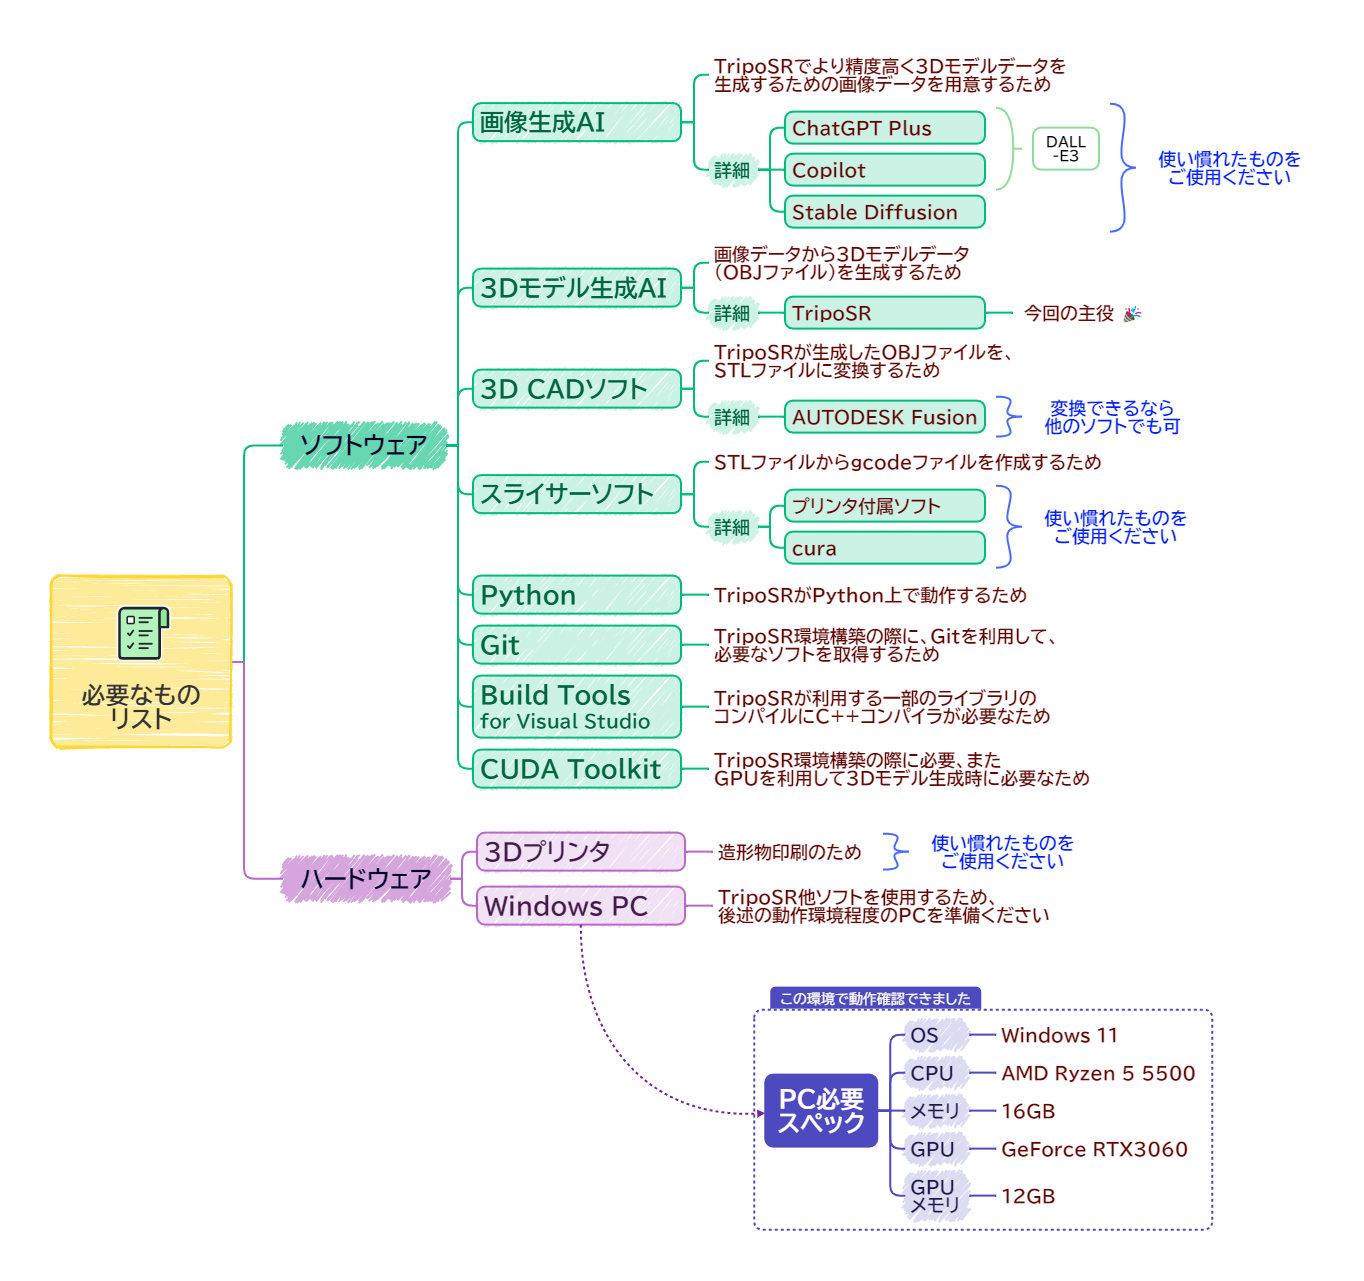
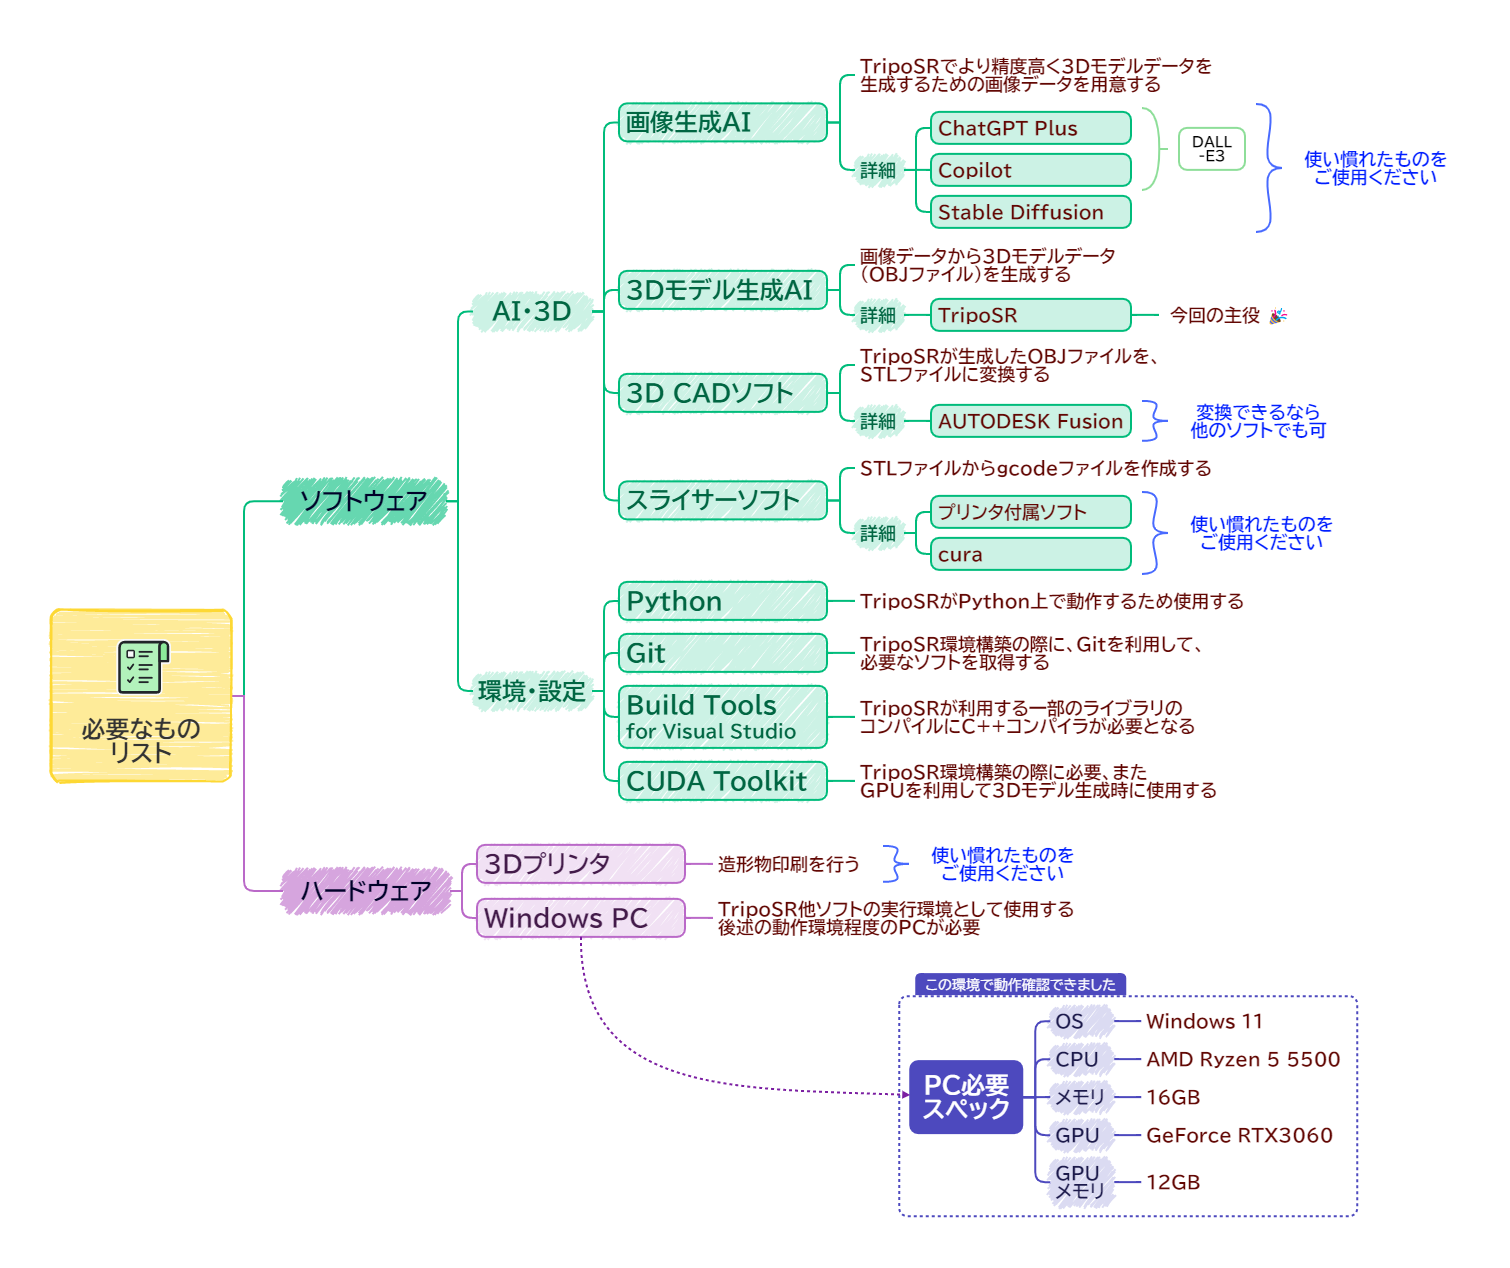
tripo 環境構築初期作成完了

Changed region(s): [[0.0308, 0.0308, 0.9545, 0.7689], [0.5235, 0.7689, 0.893, 0.9535]]

diff --git a/articles/turtle-20240721-tripo-3dp.md b/articles/turtle-20240721-tripo-3dp.md
@@ -38,21 +38,20 @@ https://ja.stability.ai/blog/triposr-3d-generation
 
 ## 必要なもの
 
-次に、必要なものをソフトウェアとハードウェアに分類して一覧にしました。使用するソフトが多く感じるかもしれませんが、環境構築や実行手順で触れますので、ご安心ください。
+次に、必要なものをソフトウェアとハードウェアに分類してリストにしました。使用するソフトウェアが多く感じるかもしれませんが、環境構築や実行手順で触れますので、ご安心ください。
 
 ![](/images/turtle-20240721-tripo-3dp/needs_list.png)
 *必要なものリスト*
 
-PC必要スペックに関する補足：
+**PCスペックの補足：**
 TripoSR使用時、下図のようにGPUメモリを消費します。8GBのGPUメモリですと、エラーになるという報告もありますので、GPUメモリを12GB以上搭載しているGPUを選定すると安心です。
-※この手のGPUメモリ不足は、何らかの回避策がある可能性ありますが、本ブログでは扱いません。ご了承ください。
 
 ![](/images/turtle-20240721-tripo-3dp/gpu_memory.png =550x)
 *使用時のGPUメモリ消費量*
 
 ## 環境構築
 
-環境構築では、肝となる「**TripoSR**」を中心に説明させていただき、その他については、簡易的な手順説明か、最低限必要なURLを提示させていただきます。インストールは、上から順番に実施してください。なお、既に導入済みのものについては、スキップして構いません。
+環境構築では「**TripoSR**」を中心に説明し、その他については、簡易的な手順説明か、最低限必要なURLを提示します。環境構築は上から順に実施し、既に導入済みのものについては、スキップしてください。
 
 ### ●Python
 
@@ -67,7 +66,7 @@ https://www.python.org/downloads/
 *インストーラのダウンロード*
 
 2. **Pythonインストール**
-インストーラを実行すると、次のような画面が表示されますので、画面下部のチェックボックス両方にチェックを入れて「Install Now」をクリックしてください。インストールが完了したら「Close」ボタンで終了します。
+インストーラを実行すると、次のような画面が表示されますので、画面下部のチェックボックス両方にチェック（※）を入れて「Install Now」をクリックしてください。インストールが完了したら「Close」ボタンで終了します。
 ※「***Add python.exe to PATH***」は、デフォルトでチェックが入っていないので、チェックを入れ忘れないよう注意してください。
 
 ![](/images/turtle-20240721-tripo-3dp/python_2.png =500x)
@@ -93,7 +92,7 @@ https://visualstudio.microsoft.com/ja/downloads/#build-tools-for-visual-studio-2
 *インストーラのダウンロード*
 
 2. **Build Toolsのインストール**
-インストーラを実行すると、次のような画面が表示されますので「**C++によるデスクトップ開発**」**チェックボックスにチェック**を入れてインストールをクリックしてください。
+インストーラを起動すると、次のような画面が表示されるので「**C++によるデスクトップ開発**」**にチェック**を入れてインストールボタンをクリックしてください。
 ※インストールの詳細は、デフォルトチェックのままでOKです。
 
 ![](/images/turtle-20240721-tripo-3dp/build_tool.png =600x)
@@ -152,7 +151,7 @@ nvcc --version
 
 ### ●TripoSR
 
-TripoSRについては、導入方法を詳細に解説します。
+TripoSRについて、導入方法を詳細に解説します。
 
 1. **TripoSRのソースをGitHubから取得**
 まず、次のサイトにアクセスします。
@@ -179,7 +178,7 @@ git clone https://github.com/VAST-AI-Research/TripoSR.git
 3. **TripoSRのフォルダ内に移動**
 PowerShellで、TripoSRのフォルダに移動します。
 CドライブにTripoSRのフォルダを保存、展開した場合は、次のコマンドを入力します。
-※ご自身の環境に応じて、適宜以下のコマンドは変更ください。
+※ご自身の環境に合わせて、適宜以下のコマンドを変更ください。
 
 ```
 cd c:\TripoSR
@@ -188,7 +187,7 @@ cd c:\TripoSR
 ![](/images/turtle-20240721-tripo-3dp/cmd_tripo_cd.png =350x)
 *TripoSRフォルダ内へ移動*
 
-3. **venv（Python仮想環境）を作成**
+4. **venv（Python仮想環境）を作成**
 コマンドを入力し、TripoSRフォルダ内にvenv（Python仮想環境）を作成します。
 
 ```
@@ -212,11 +211,11 @@ Pythonで生成AIの環境を構築する際に、仮想環境を作成するこ
 ![](/images/turtle-20240721-tripo-3dp/venv_fig.png)
 *venv あり/なし比較図（クリックして拡大）*
 
-仮想環境を使うことで、Pythonのプロジェクト管理がより効率的かつ安全になります。venv初めてという方は、今後、生成AIに限らず、開発や実行環境の構築などで利用してみてください。
+仮想環境を使うことで、Pythonのプロジェクト管理がより効率的かつ安全になります。venvが初めてという方は、今後、生成AIに限らず、開発や実行環境の構築などで利用してみてください。
 :::
 ::::
 
-4. **仮想環境アクティベート（有効化）**
+5. **仮想環境アクティベート**
 コマンドを入力し、仮想環境をアクティベート（有効化）します。
 下図のように(.venv)が表示されたら、アクティベート成功です。
 
@@ -225,9 +224,9 @@ Pythonで生成AIの環境を構築する際に、仮想環境を作成するこ
 ```
 
 ![](/images/turtle-20240721-tripo-3dp/cmd_tripo_active.png =350x)
-*仮想環境アクティベート（有効化）*
+*仮想環境アクティベート*
 
-5. **ツールアップデート**
+6. **ツールアップデート (仮想環境)**
 コマンド入力し、仮想環境内のpip, wheel, setuptoolsのアップデートを行います。
 エラー表示なく、次の画面のようにsuccessfullyが表示されたら成功です。
 
@@ -238,7 +237,7 @@ py.exe -m pip install --upgrade pip wheel setuptools
 ![](/images/turtle-20240721-tripo-3dp/cmd_update_success.png =600x)
 *ツールアップデート成功*
 
-6. **pytorchインストール**
+7. **pytorchインストールコマンド取得**
 pytorchと呼ばれる機械学習ライブラリをインストールします。
 以下のPytorch.orgサイトにアクセスし、少し下にスクロールすると、環境の選択画面があります。
 この選択画面で、自身の環境に合わせてポチポチ選択します。
@@ -251,7 +250,7 @@ https://pytorch.org/get-started/locally/
 
 ::::message
 Tips
-:::details もし、Compute Platform（CUDAバージョン）が分からない場合（クリックで開く）
+:::details Compute Platform（CUDAバージョン）が分からない場合（クリックで開く）
 Compute Platformの項目で何を選択したらよいかわからない場合、次のコマンドを実行してください。
 ```
 nvidia-smi
@@ -260,7 +259,7 @@ nvidia-smi
 ![](/images/turtle-20240721-tripo-3dp/nvidiasmi_cmd.png =550x)
 *nvidia-smi コマンド実行画面*
 
-なお、Pytorchの選択画面にバージョン「12.3」はありませんが、12.3が表示された場合は「12.1」を選択することでうまくいきます。
+なお、Pytorchの選択画面にバージョン「12.3」はありませんが、12.3が表示された場合は「12.1」を選択します。
 :::
 
 :::details 以前のバージョンのPytorchをインストールしたい場合（クリックで開く）
@@ -278,26 +277,26 @@ https://pytorch.org/get-started/previous-versions/
 ```
 pip install torch==2.3.1 torchvision==0.18.1 torchaudio==2.3.1 --index-url https://download.pytorch.org/whl/cu121
 ```
-※ご自身の環境に応じて、適切なコマンドを選択してください。
+※ご自身の環境に合わせて、適切なコマンドを選択してください。
 なお、本記事執筆時点（2024年7月）においては、v2.3.1、v2.4.0で動作を確認しております。
 :::
 ::::
 
-7. **pytorchインストール（コマンド実行）**
-手順6でコピーしたコマンドをコマンドプロンプトに貼り付けて実行します。
+8. **pytorchインストールコマンド実行 (仮想環境)**
+手順7でコピーしたコマンドをコマンドプロンプトに貼り付けて実行します。
 エラー表示なく、次の画面のようにsuccessfullyが表示されたら成功です。
 
 ![](/images/turtle-20240721-tripo-3dp/pytorch_success.png =550x)
 *Pytorch コマンド実行画面*
 
-8. **環境変数設定**
+9. **環境変数設定 (仮想環境)**
 次のコマンドを実行して、環境変数を設定します。
 
 ```
 set DISTUTILS_USE_SDK=1
 ```
 
-8. **TripoSRのrequirements.txt書き換え**
+10. **TripoSRのrequirements.txt書き換え**
 TripoSRの環境構築に必要な依存モジュールを記した**requirements.txt**を書き換えます。
 具体的には、この中の「torchmcubes」というモジュールが、最新バージョンだとcmakeコンパイルに失敗するため、以前のバージョンを指定します。
 変更するファイルの場所は`<path>\TripoSR\requirements.txt`です。
@@ -316,8 +315,8 @@ TripoSRの環境構築に必要な依存モジュールを記した**requirement
 git+https://github.com/tatsy/torchmcubes.git@cbb3c3795b1e168bf81e8dee28623eaf5c33cd1c
 ```
 
-9. **TripoSRが必要なライブラリをインストール**
-次のコマンドを実行して、手順8で一部書き換えたrequirements.txt（要求ファイル）に基づき、TripoSRが必要なライブラリをインストールします。
+11. **TripoSRが必要なライブラリをインストール (仮想環境)**
+次のコマンドを実行して、手順10で一部書き換えたrequirements.txt（要求ファイル）に基づき、TripoSRが必要なライブラリをインストールします。
 
 ```
 pip install -r requirements.txt
@@ -328,17 +327,61 @@ pip install -r requirements.txt
 ![](/images/turtle-20240721-tripo-3dp/req_success.png =600x)
 *requirements.txt installコマンド実行画面*
 
-### ●Copilot
-画像生成にCopilotを使用する場合、Microsoft Edgeブラウザを開いて、検索欄の次のアイコンをクリックするだけで使用できます。
+12. **TripoSRの起動確認 (仮想環境)**
+コマンドを実行して、TripoSRアプリケーションを起動します。
+次の画面のように、Running on local URLが表示されたら成功です。
 
-![](/images/turtle-20240721-tripo-3dp/cop_icon.png =250x)
-*Copilotアイコン*
+```
+python gradio_app.py
+```
+
+![](/images/turtle-20240721-tripo-3dp/app_success.png =550x)
+*アプリケーション 起動成功*
+
+13. **TripoSRのWeb UI画面を起動**
+Webブラウザを開き、手順12の画面に表示された「Running on local URL」のアドレス「http://127.0.0.1:7860」をブラウザに入力します。次の画面がブラウザ上に表示されたら成功です。
+
+![](/images/turtle-20240721-tripo-3dp/webui.png =550x)
+*WebUI画面*
+
+14. **起動用バッチファイルの作成**
+次回からの起動を楽にするために、起動用のバッチファイルを作成します。次の内容を参考にファイルを作成したら、TripoSRのフォルダ直下（gradio_app.pyやrequirements.txtと同一階層）に保存します。このファイルのショートカットを作成して、デスクトップにでも置いておけば、以降ワンクリックで起動が可能になります👍
+※ バッチファイル実行後、すぐにブラウザが起動しますが、TripoSRアプリが起動していないため「ページに到達できません」が表示されると思います。その場合は、TripoSRアプリが起動するの待ってから、ブラウザを再度読み込んでください。
+
+
+```batch:tripo_run.bat（起動用バッチファイル）
+@echo off
+REM Move to TripoSR directory
+cd /d %~dp0
+
+REM Open URL in browser
+start http://127.0.0.1:7860
+
+REM Activate the virtual environment
+call .venv\Scripts\activate
+
+REM Run gradio_app.py
+python gradio_app.py
+
+REM Deactivate the virtual environment (if necessary)
+deactivate
+
+REM Prevent the command prompt from closing
+pause
+```
+
+以上で、TripoSRの導入方法の解説は終了です。
 
 ### ●AUTODESK Fusion
-OBJファイル→STLファイル変換にFusionを利用する場合、以下の公式サイトのページにアクセスします。まず「無償体験版をダウンロード」ボタンをクリックします。次のページが表示されたら「非商用（趣味利用版 機能限定 ）」を選択して、個人用Fusion360を入手ボタンをクリックし、以降は手順に従ってインストールを進めます。アカウント作成の作成が必要になりますので、作成してください。
+OBJファイル→STLファイル変換にAUTODESK Fusionを利用する場合、次の手順でインストールしてください。
+
+1. 次の公式サイトのページにアクセスします。
 
 https://www.autodesk.com/jp/products/fusion-360/overview?term=1-YEAR&tab=subscription
 
+2. 「無償体験版をダウンロード」ボタンをクリックします。
+3. 次のページが表示されたら「非商用（趣味利用版 機能限定 ）」を選択し「個人用Fusion360を入手」ボタンをクリックします。
+4. 以降は手順に従ってインストールを進めます。途中、アカウント作成の作成が必要になりますので作成してください。
 
 ## 実行手順
 
@@ -347,3 +390,9 @@ https://www.autodesk.com/jp/products/fusion-360/overview?term=1-YEAR&tab=subscri
 ### ○○する
 
 ### ○○する
+
+### ●Copilot
+画像生成にCopilotを使用する場合、Microsoft Edgeブラウザを開いて、検索欄の次のアイコンをクリックするだけで使用できます。
+
+![](/images/turtle-20240721-tripo-3dp/cop_icon.png =250x)
+*Copilotアイコン*
